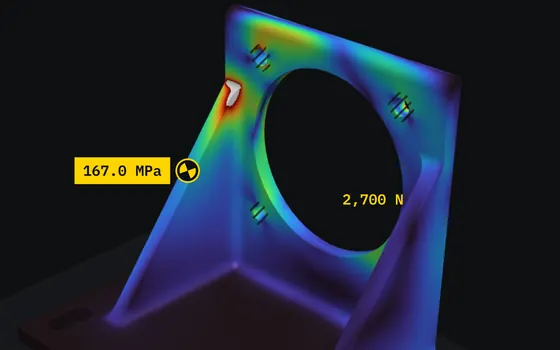
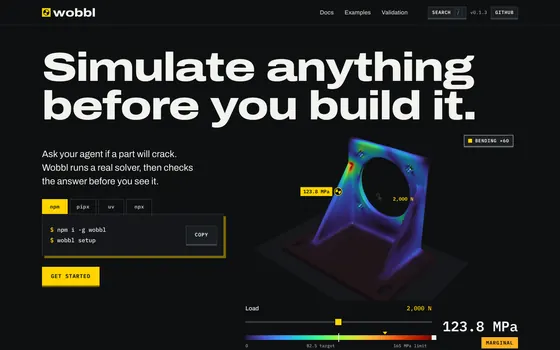
Show an overview screenshot of each project's site again
The tight crops were too zoomed in. Each card now shows the first screen
of the live site at 1280x800 (wobbl at 1440x900 so its stress readout
fits), retaken fresh: Taro's home page instead of the old /demo page,
VacantCourt's redesign, ensemble's score, and a CareerAI answer, since
its first screen is an empty search box.

diff --git a/src/data/projects.js b/src/data/projects.js
@@ -1,6 +1,6 @@
 // `date` is when each project started. `kind` says what it is. `image` names
-// the card-<image>-560 and -1120 pictures in public/imgs: a 16:10 crop of the
-// moment the project does its thing, not its whole landing page.
+// the card-<image>-560 and -1120 screenshots in public/imgs: an overview of
+// each project's site, 16:10.
 const projects = [
     {
         id: 'wobbl',
@@ -15,7 +15,7 @@ const projects = [
             { label: 'Video', url: 'https://www.youtube.com/watch?v=RtCNKbhABqE' },
         ],
         image: 'wobbl',
-        alt: 'A bracket under a 2,700 N load, colored by stress, with its failure point marked at 167.0 MPa.',
+        alt: 'Wobbl’s site: “Simulate anything before you build it.” beside a 3D bracket colored by stress.',
     },
     {
         id: 'oopsy',
@@ -30,7 +30,7 @@ const projects = [
             { label: 'Video', url: 'https://youtu.be/Krh9cU08rIg' },
         ],
         image: 'oopsy',
-        alt: 'A terminal: rm -rf src, then oops restores the folder from snapshot 42.',
+        alt: 'Oopsy’s site: “Undo for rm -rf.” beside a terminal you can try in the browser.',
     },
     {
         id: 'taro',
@@ -45,7 +45,7 @@ const projects = [
             { label: 'Video', url: 'https://youtu.be/8_FzNl4uwyY' },
         ],
         image: 'taro',
-        alt: 'A meeting transcript: “Hey Taro, file an issue about that.” Taro: “Opened issue #142 in acme/web.”',
+        alt: 'Taro’s site: “Meeting follow-ups get lost. Taro does them before you hang up.”',
     },
     {
         id: 'signnet',
@@ -59,7 +59,7 @@ const projects = [
             { label: 'Code', url: 'https://github.com/sohan-bhat/signnet' },
         ],
         image: 'signnet',
-        alt: 'signnet classifying a stop sign as Stop with 100.0% confidence.',
+        alt: 'signnet’s site, “Traffic sign classification, built from scratch,” with its test accuracy.',
     },
     {
         id: 'ensemble',
@@ -73,7 +73,7 @@ const projects = [
             { label: 'Code', url: 'https://github.com/sohan-bhat/ensemble' },
         ],
         image: 'ensemble',
-        alt: 'The opening bars of Ensemble’s shared score, with the first notes in the violins.',
+        alt: 'Ensemble’s shared score for violins, viola, cello, and bass.',
     },
     {
         id: 'vacantcourt',
@@ -88,7 +88,7 @@ const projects = [
             { label: 'App', url: 'https://github.com/sohan-bhat/VacantCourtApp', title: 'Android app code' },
         ],
         image: 'vacantcourt',
-        alt: 'VacantCourt’s court camera boxing each player inside the outlines of Court 1 and Court 2.',
+        alt: 'VacantCourt’s site, “Skip the drive to a full court,” beside a court camera that boxes each player.',
     },
     {
         id: 'mochi',
@@ -102,7 +102,7 @@ const projects = [
             { label: 'Code', url: 'https://github.com/sohan-bhat/Mochi' },
         ],
         image: 'mochi',
-        alt: 'Mochi’s first suggestion: a spinach and tomato frittata with onion and garlic.',
+        alt: 'Mochi’s site: “Turn what you have into what you’ll cook tonight.”',
     },
     {
         id: 'career-ai',
@@ -117,7 +117,7 @@ const projects = [
             { label: 'Code', url: 'https://github.com/sohan-bhat/CareerAI' },
         ],
         image: 'careerai',
-        alt: 'CareerAI turning “I love coding and tennis” into a career idea: sports-tech software engineer.',
+        alt: 'CareerAI suggesting careers from a list of interests.',
     },
 ];
 

diff --git a/src/components/ProjectCard.js b/src/components/ProjectCard.js
@@ -1,8 +1,8 @@
 import React from 'react';
 import '../styles/ProjectCard.css';
 
-// One project: the title and its links across the top, a picture of the
-// moment it does its thing, one sentence, and what it's built with.
+// One project: the title and its links across the top, a screenshot of its
+// site, one sentence, and what it's built with.
 const ProjectCard = ({ project }) => (
     <article className="project-card">
         <header className="card-head">
